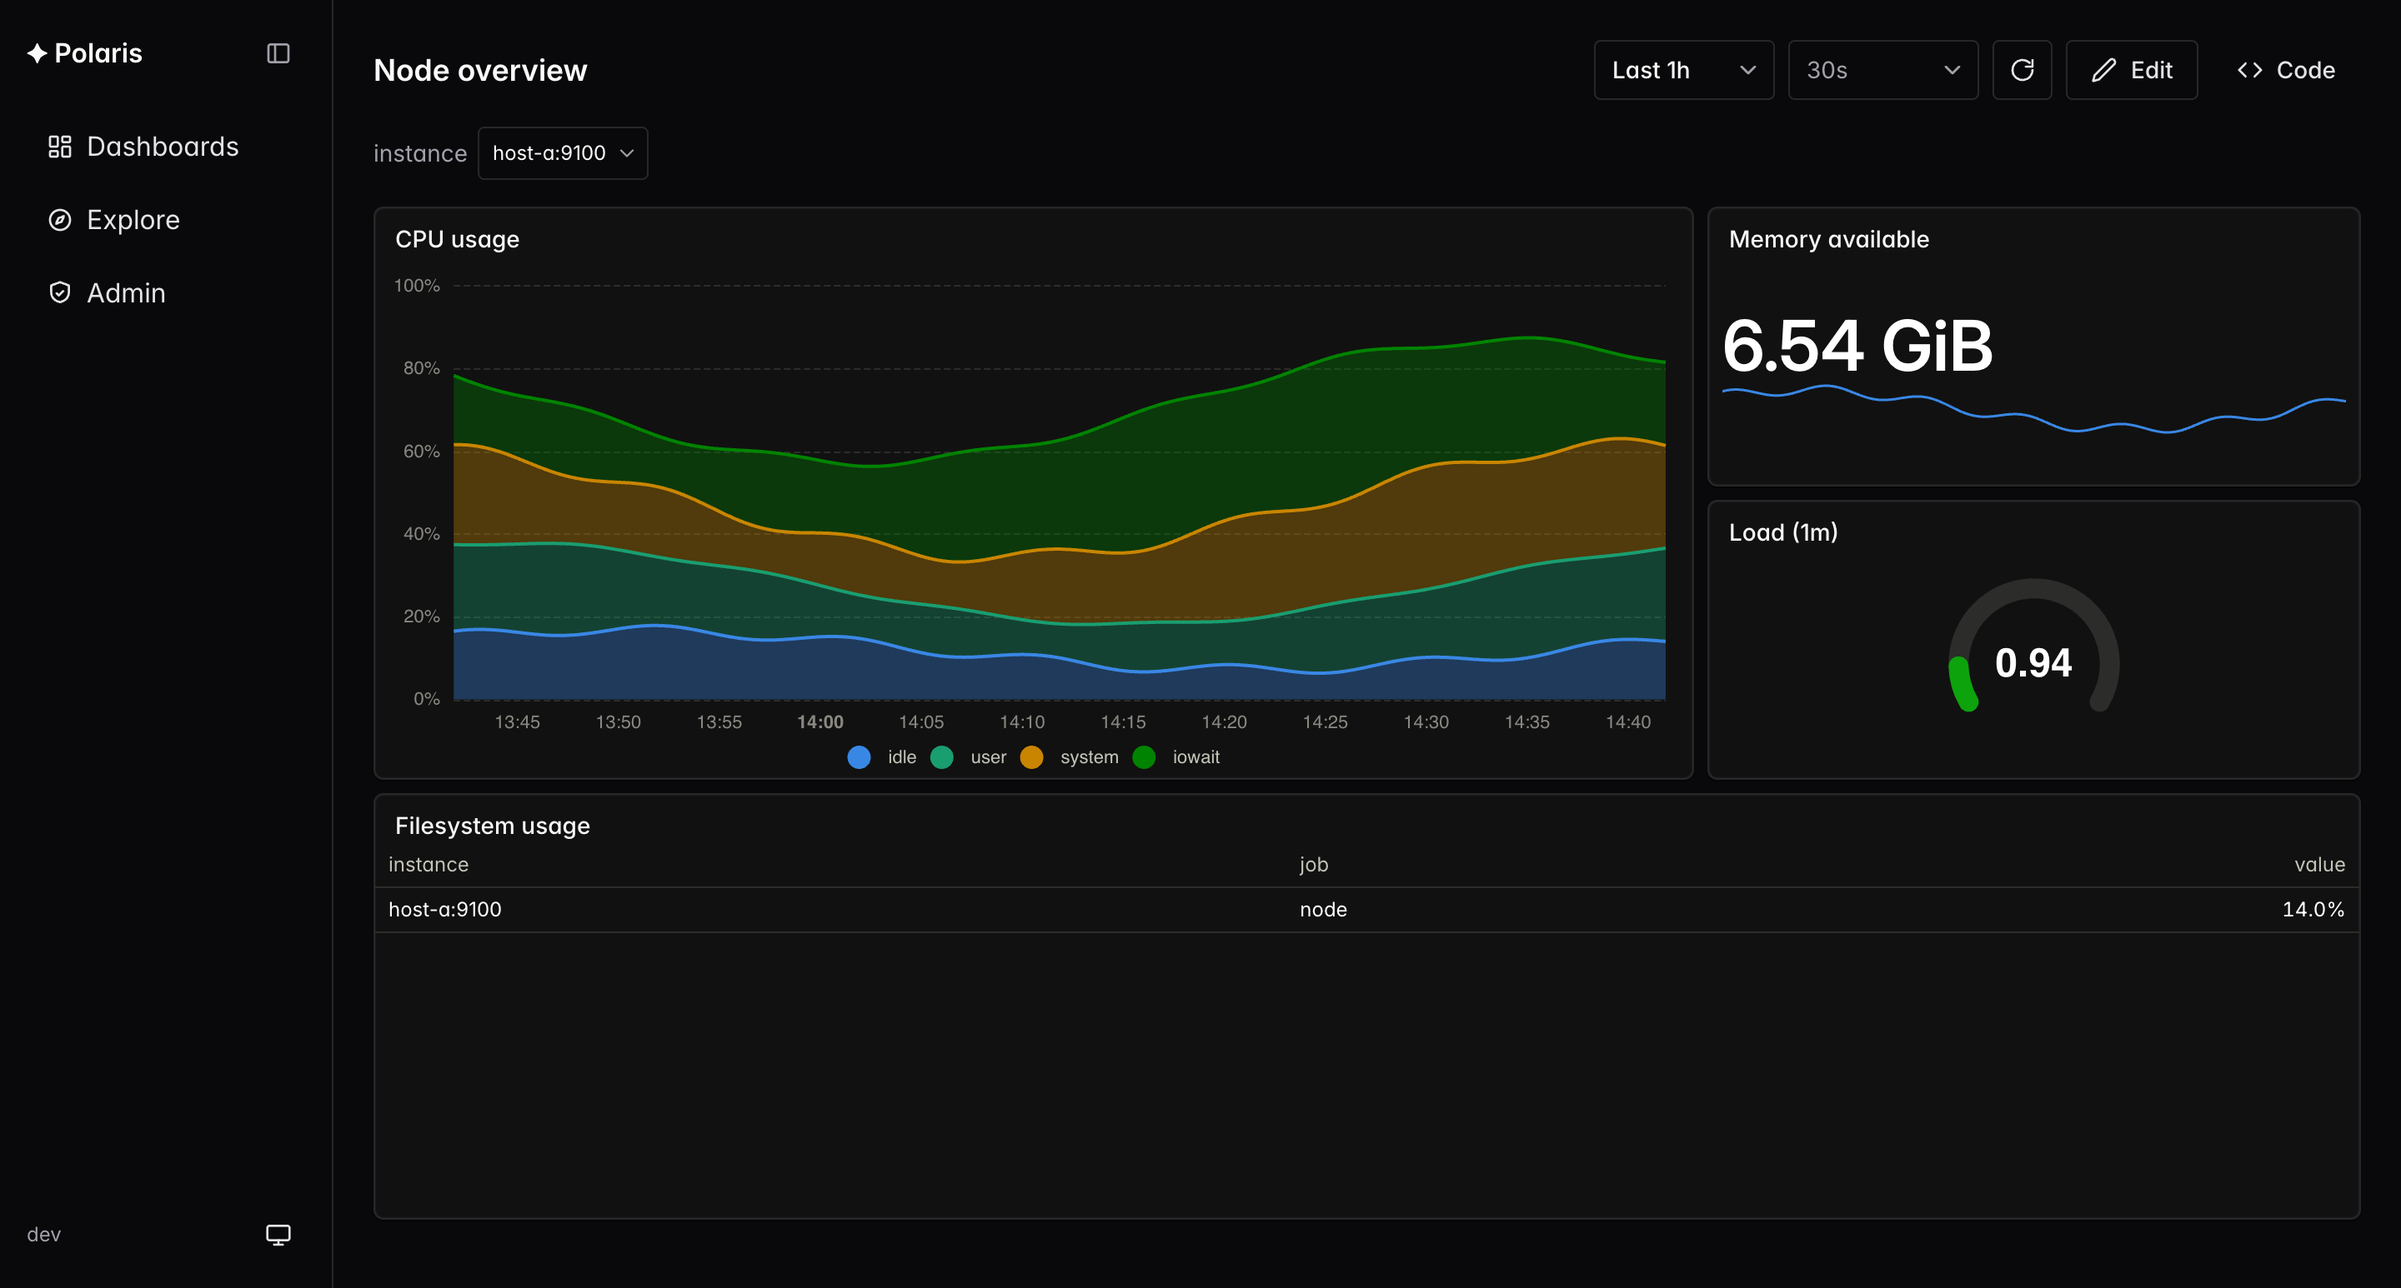
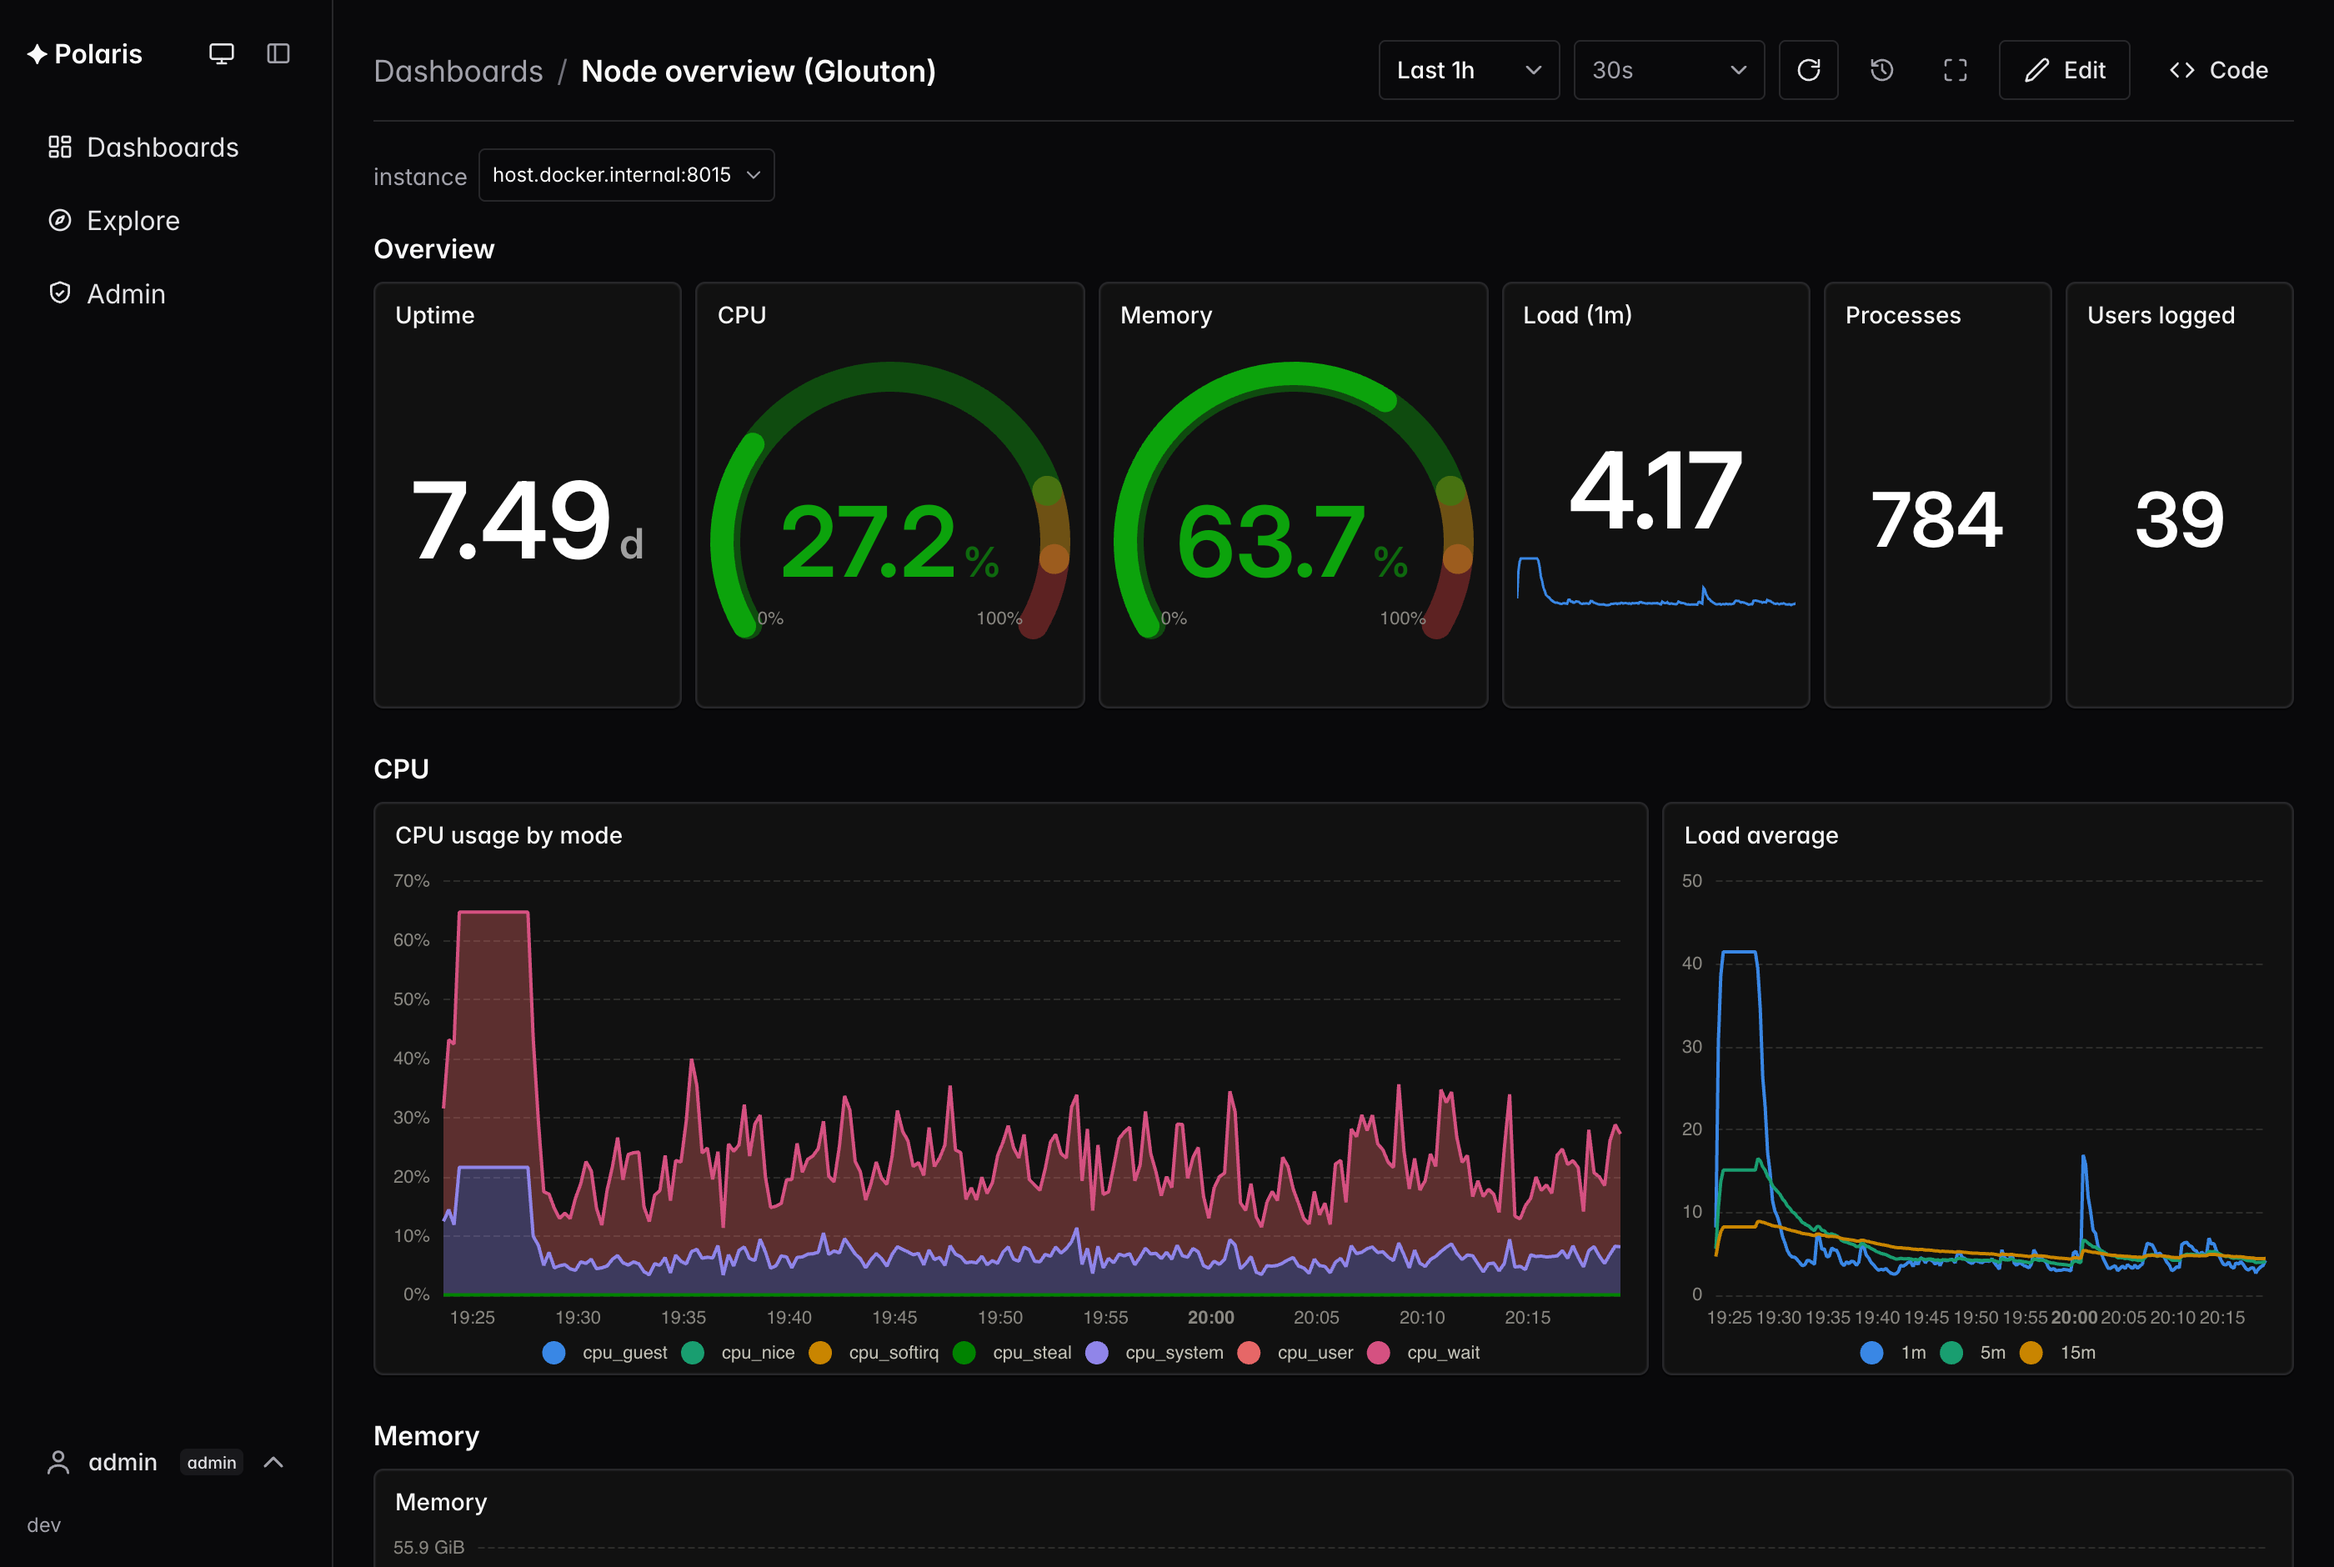
Prepare the repository for public release
Remove the scratch dashboards left in dashboards/ (only the two real
samples remain), refresh the light/dark README screenshots to the
current polished UI, expand the README feature list with the git
history/sync and authentication capabilities, and add CONTRIBUTING and
SECURITY guides.

diff --git a/CONTRIBUTING.md b/CONTRIBUTING.md
@@ -1,0 +1,63 @@
+# Contributing to Polaris
+
+Thanks for your interest in Polaris. This is a small, focused project;
+issues and pull requests are welcome.
+
+## Development setup
+
+Polaris is a pnpm monorepo (TypeScript, React) plus a Go backend.
+
+```sh
+pnpm install
+pnpm test          # all workspace tests (vitest)
+pnpm typecheck     # all packages + app (tsc)
+
+cd backend
+go test ./...      # backend tests
+```
+
+Run the app against your own Prometheus during development — the vite dev
+server proxies `/api` to the backend:
+
+```sh
+# terminal 1: backend on :8080
+cd backend && go run . -prometheus-url http://localhost:9090 -dashboards-dir ../dashboards
+# terminal 2: vite on :3000
+pnpm --filter polaris dev
+```
+
+`pnpm build-binary` produces the single `./polaris` binary with the SPA
+embedded.
+
+See [README.md](./README.md) for the repository layout and
+[DESIGN.md](./DESIGN.md) for the data model, plugin system and the design
+rationale — please read DESIGN.md before proposing an architectural
+change.
+
+## Ground rules
+
+- **The file format is the product.** Serialization stays deterministic
+  and git-friendly: stable key order, defaults omitted, a one-field edit
+  produces a one-line diff. There is a test asserting this — keep it
+  passing.
+- **After changing the Zod schemas** in `packages/model`, run
+  `pnpm generate-schema` (in that package) to regenerate the backend's
+  JSON Schema, and mirror any cross-field check in the Go validator.
+- **The Prometheus proxy is read-only.** Never expose write/admin
+  Prometheus endpoints through it.
+- **Everything in the repository is in English** — code, comments,
+  docs, commit messages, PR descriptions.
+- Add tests for new behavior, and make sure `pnpm test`,
+  `pnpm typecheck` and `go test ./...` are green before opening a PR.
+
+## Pull requests
+
+Keep changes focused and describe the motivation. Small, reviewable
+commits with clear messages are appreciated. CI runs the test, typecheck
+and lint suites plus a Docker smoke test; they must pass.
+
+## Reporting bugs
+
+Open an issue with the steps to reproduce, what you expected, and what
+happened instead. For security issues, follow [SECURITY.md](./SECURITY.md)
+instead of opening a public issue.

diff --git a/SECURITY.md b/SECURITY.md
@@ -1,0 +1,41 @@
+# Security policy
+
+## Reporting a vulnerability
+
+Please report security issues **privately**, not through public issues or
+pull requests.
+
+The preferred channel is GitHub's private vulnerability reporting: open
+the repository's **Security** tab and choose **Report a vulnerability**.
+This opens a private advisory visible only to the maintainers.
+
+Please include:
+
+- a description of the issue and its impact,
+- the steps or a proof of concept to reproduce it,
+- the affected version or commit.
+
+We aim to acknowledge a report within a few working days and will keep
+you informed as we investigate and prepare a fix. Please give us a
+reasonable window to release a fix before any public disclosure.
+
+## Scope and posture
+
+A few design points worth knowing when assessing Polaris:
+
+- **The Prometheus proxy is read-only**: only an allowlisted set of
+  native query/metadata endpoints is forwarded; write and admin paths
+  are never exposed.
+- **Datasource and git credentials stay server-side.** They are never
+  sent to the browser; the git remote token/SSH key reaches git through
+  askpass / `GIT_SSH_COMMAND`, never on a command line.
+- **Authentication is opt-in.** A fresh instance is open (anyone who can
+  reach it has admin access) until the first user is created or an
+  external identity provider is configured — see the README. Do not
+  expose an unauthenticated instance to an untrusted network.
+- Server-managed secrets (session secret, stored credentials) are
+  written to owner-only (`0600`) files.
+
+Reports about the intentionally-open first-run state, or about instances
+deliberately run without authentication, are not considered
+vulnerabilities.

diff --git a/README.md b/README.md
@@ -11,12 +11,19 @@ version, review and deploy through git.
 - **Files are the product** — every dashboard is a git-friendly file with
   deterministic serialization: a one-field edit produces a one-line diff.
   Edit in the UI, review in git, or run fully provisioned (`-readonly`).
+- **Git-native history** — browse a dashboard's versions, diff them and
+  restore one, straight from the UI (backed by `git log`). Optional
+  commit-on-save and push/pull sync with a remote close the GitOps loop:
+  edit in the browser, land an attributed commit, and pull teammates'
+  changes live.
 - **Prometheus-native** — queries go through a read-only proxy to your
   Prometheus; a built-in PromQL editor with live autocompletion, an
   Explore view, chained dashboard variables.
 - **Grafana import** — convert dashboards from a JSON export or straight
   from grafana.com, with honest per-panel warnings.
-- **Light & dark**, keyboard shortcuts, kiosk mode for wall screens.
+- **Batteries where it counts** — local users with three roles, plus
+  reverse-proxy and OIDC authentication; light & dark themes; keyboard
+  shortcuts and a kiosk mode for wall screens.
 
 ## Quickstart
 
